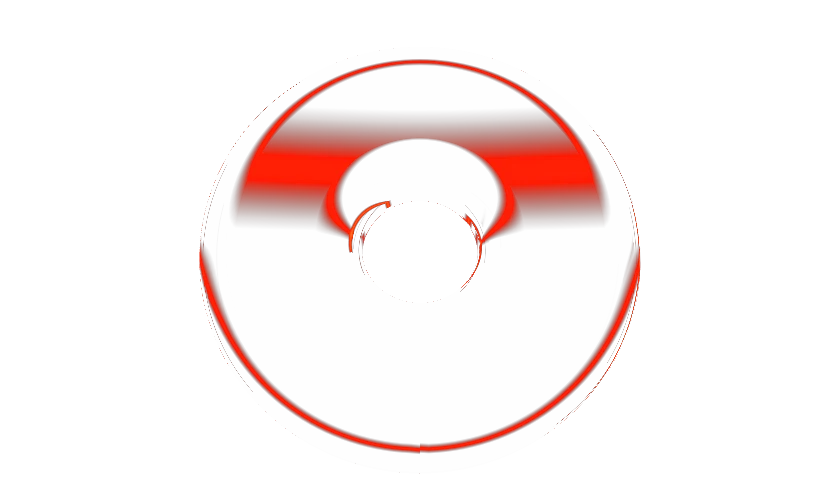
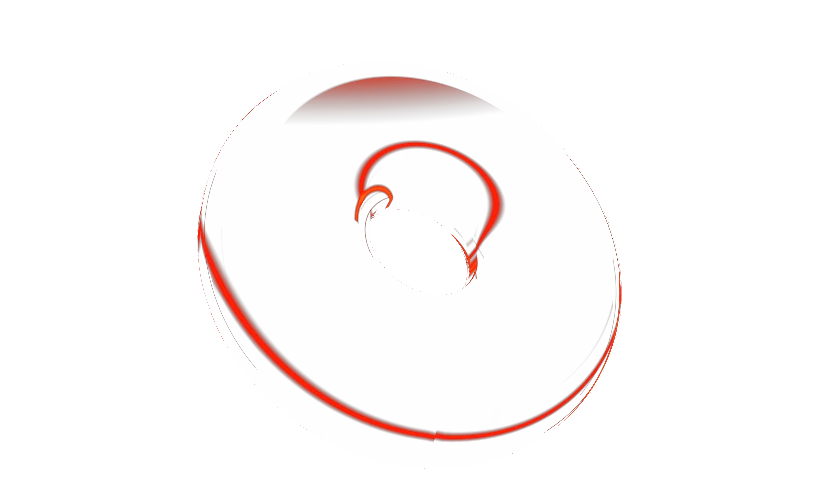
fix: 멈춘 그림 CD·유리 덩어리를 비스듬한 각도로
Claude-Session: https://claude.ai/code/session_01K6wp9fSxNiTgdEQgPG11gJ

Changed region(s): [[0.2476, 0.12, 0.7429, 0.57], [0.2167, 0.42, 0.7738, 0.93], [0.5881, 0.15, 0.619, 0.18]]

diff --git a/index.html b/index.html
@@ -25,7 +25,7 @@
   <link rel="stylesheet" href="https://fonts.googleapis.com/css2?family=Geist:wght@400;600&family=Instrument+Serif:ital@0;1&display=swap">
   <link rel="stylesheet" href="https://cdn.jsdelivr.net/gh/orioncactus/pretendard@v1.3.9/dist/web/variable/pretendardvariable-dynamic-subset.min.css">
   <link rel="preload" as="image" href="img/release-keyveatz-oxygen.webp">
-  <link rel="stylesheet" href="css/style.css?v=20261030-neon2">
+  <link rel="stylesheet" href="css/style.css?v=20261030-neon3">
   <script type="importmap">{ "imports": { "three": "./js/vendor/three.module.min.js" } }</script>
 </head>
 <body class="page-home">
@@ -281,13 +281,13 @@
 
   <img class="artist-preview" alt="" aria-hidden="true">
 
-  <script src="js/data.js?v=20261030-neon2"></script>
-  <script src="js/player.js?v=20261030-neon2"></script>
-  <script src="js/script.js?v=20261030-neon2"></script>
-  <script src="js/effects.js?v=20261030-neon2"></script>
+  <script src="js/data.js?v=20261030-neon3"></script>
+  <script src="js/player.js?v=20261030-neon3"></script>
+  <script src="js/script.js?v=20261030-neon3"></script>
+  <script src="js/effects.js?v=20261030-neon3"></script>
   <script type="module">
-    import { createSoundScene } from './js/sound3d.js?v=20261030-neon2';
-    import { createLogoScene } from './js/logo3d.js?v=20261030-neon2';
+    import { createSoundScene } from './js/sound3d.js?v=20261030-neon3';
+    import { createLogoScene } from './js/logo3d.js?v=20261030-neon3';
     const section = document.getElementById('sound');
     const heroEl = document.getElementById('hero');
     const np = document.getElementById('np');
@@ -339,7 +339,7 @@
       .catch((e) => { console.warn(e); document.documentElement.classList.add('no-webgl'); });
     createLogoScene(document.getElementById('footer-canvas'), { mode: 'footer', interactive: false }).catch(() => {});
     // WHAT WE DO 카드 3D 오브제: 실패하면 미리 렌더한 이미지가 그대로 보임
-    import('./js/wwd3d.js?v=20261030-neon2').then((m) => m.initWwd3D(document.getElementById('what-we-do'))).catch(() => {});
+    import('./js/wwd3d.js?v=20261030-neon3').then((m) => m.initWwd3D(document.getElementById('what-we-do'))).catch(() => {});
   </script>
 </body>
 </html>

diff --git a/artist.html b/artist.html
@@ -24,7 +24,7 @@
   <link rel="stylesheet" href="https://fonts.googleapis.com/css2?family=Geist:wght@400;600&family=Instrument+Serif:ital@0;1&display=swap">
   <link rel="stylesheet" href="https://cdn.jsdelivr.net/gh/orioncactus/pretendard@v1.3.9/dist/web/variable/pretendardvariable-dynamic-subset.min.css">
   <link rel="preload" as="image" href="img/artist-keyveatz.webp">
-  <link rel="stylesheet" href="css/style.css?v=20261030-neon2">
+  <link rel="stylesheet" href="css/style.css?v=20261030-neon3">
   <script type="importmap">{ "imports": { "three": "./js/vendor/three.module.min.js" } }</script>
 </head>
 <body class="page-artist">
@@ -146,12 +146,12 @@
     <div class="player__end"><button class="cta player__audio" type="button" data-action="audio-toggle" aria-pressed="false" aria-label="소리 켜기"><span class="cta__label" data-copy="audio.on">AUDIO ON</span></button><button class="cta" type="button" data-action="player-close" aria-label="플레이어 접기"><span class="cta__label">CLOSE</span></button></div>
   </div>
 
-  <script src="js/data.js?v=20261030-neon2"></script>
-  <script src="js/player.js?v=20261030-neon2"></script>
-  <script src="js/script.js?v=20261030-neon2"></script>
-  <script src="js/effects.js?v=20261030-neon2"></script>
+  <script src="js/data.js?v=20261030-neon3"></script>
+  <script src="js/player.js?v=20261030-neon3"></script>
+  <script src="js/script.js?v=20261030-neon3"></script>
+  <script src="js/effects.js?v=20261030-neon3"></script>
   <script type="module">
-    import { createLogoScene } from './js/logo3d.js?v=20261030-neon2';
+    import { createLogoScene } from './js/logo3d.js?v=20261030-neon3';
     createLogoScene(document.getElementById('footer-canvas'), { mode: 'footer', interactive: false }).catch(() => {});
   </script>
 </body>

diff --git a/docs/static-page-fix-log.md b/docs/static-page-fix-log.md
@@ -250,4 +250,4 @@
 |---|---|---|---|
 | 90 | 변경 | 오브제 재질: 은색 금속 → 매끈한 투명 유리. 몸통은 비치고, 유리 안에 주황 네온관이 비치듯 가장자리 곡선을 따라 주황 빛이 흐름(무지개 분산·흰 빛 없음). 둘레에 은은한 번짐(CSS drop-shadow). 유리 덩어리는 각진 다면체 → 매끈한 조약돌. 한 바퀴 약 9초 | `js/wwd3d.js`, `css/style.css` |
 | 91 | 변경 | 3D는 1024px 이상에서만(카드가 고정되는 폭과 같게). 그 외·동작 줄이기·실패 시 같은 네온 재질로 미리 렌더한 투명 이미지 | `js/wwd3d.js`, `img/wwd-*.webp` |
-| 92 | 변경 | 멈춘 그림(1024px 미만·동작 줄이기)을 회전 중 한 장면 → 모양이 잘 보이는 정면 각도로 따로 렌더하고 조금 크게 (CD 정면, 반짝임 정면) | `img/wwd-*.webp`, `css/style.css` |
+| 92 | 변경 | 멈춘 그림(1024px 미만·동작 줄이기)을 회전 중 한 장면 → 모양이 잘 보이는 정면 각도로 따로 렌더하고 조금 크게 (CD·유리 덩어리는 비스듬히, 지구본·반짝임은 정면) | `img/wwd-*.webp`, `css/style.css` |
